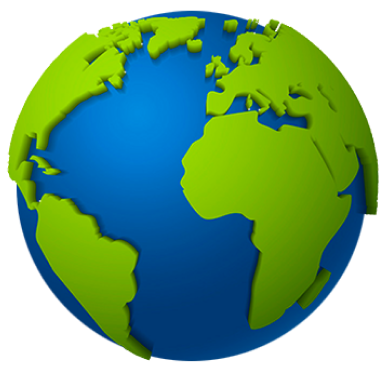
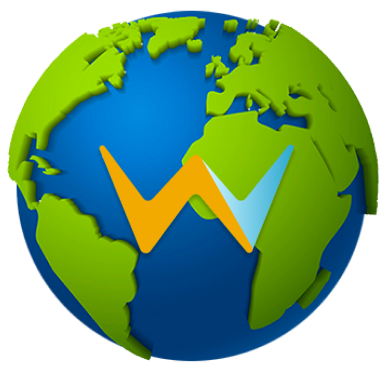
fix(home): refactor copy text

Changed region(s): [[0.2462, 0.3834, 0.7692, 0.7078]]

diff --git a/src/containers/webbtc/getStarted.tsx b/src/containers/webbtc/getStarted.tsx
@@ -1,0 +1,108 @@
+import { Box, Button, Grid, Typography } from "@mui/material";
+import Container from "@mui/material/Container";
+import ChevronRightIcon from "@mui/icons-material/ChevronRight";
+
+export default function GetStarted() {
+  const styles = {
+    root: {
+      display: "flex",
+      flexDirection: "column",
+      justifyContent: "center",
+      alignItems: "center",
+      padding: { xs: "0px 25px", md: "60px 24px 80px" },
+    },
+    containerImage: {
+      display: "flex",
+      flexDirection: "column",
+      justifyContent: "center",
+      img: {
+        margin: { xs: "0px", sm: "0px auto 20px" },
+        width: "100%",
+        maxWidth: { xs: "500px", md: "100%" },
+      },
+    },
+    title: {
+      fontSize: "38px",
+      fontWeight: "800",
+      lineHeight: "49px",
+    },
+    text: {
+      marginTop: "1rem",
+      fontSize: "20px",
+      fontWeight: "400",
+      opacity: "0.8",
+    },
+    containerText: {
+      display: "flex",
+      margin: "auto",
+      flexDirection: "column",
+      width: "100%",
+      maxWidth: "482px",
+    },
+    buttonContainer: {
+      display: "flex",
+      alignItems: "center",
+      margin: "5px auto",
+      flexDirection: { xs: "column", sm: "row" },
+      width: "100%",
+      maxWidth: "482px",
+    },
+    button: {
+      textTransform: "none",
+      borderRadius: "10px",
+      margin: { xs: "10px 15px 10px 0px", sm: "25px 25px auto 0px" },
+      width: "210px",
+      height: "64px",
+      background: "#F2A900",
+      color: "#0A0D13",
+      fontStyle: "normal",
+      fontWeight: "500",
+      fontSize: "16px",
+      lineHeight: "24px",
+      "&:hover": {
+        background: "#FFB800",
+      },
+    },
+  };
+
+  return (
+    <Container sx={styles.root}>
+      <Grid container spacing={2}>
+        <Grid item xs={12} md={6} sx={styles.containerImage}>
+          <img src="/images/illustrations/example.png" alt="setup" />
+        </Grid>
+        <Grid item xs={12} md={6}>
+          <Box sx={styles.containerText}>
+            <Typography sx={styles.title}>Get started with WebLN</Typography>
+            <Typography sx={styles.text}>
+              WebLN is an implementation of the WebBTC specification that
+              focuses only on off-chain Lightning Network functionality,
+              allowing web apps and client providers to communicate with user
+              wallets.
+            </Typography>
+          </Box>
+
+          <Box sx={styles.buttonContainer}>
+            <Button
+              variant="contained"
+              sx={styles.button}
+              color="primary"
+              endIcon={<ChevronRightIcon />}
+              href="/webln"
+            >
+              Learn more
+            </Button>
+            <Button
+              variant="contained"
+              sx={styles.button}
+              endIcon={<ChevronRightIcon />}
+              href="https://webln.guide"
+            >
+              Developers Docs
+            </Button>
+          </Box>
+        </Grid>
+      </Grid>
+    </Container>
+  );
+}

diff --git a/src/containers/webbtc/specifications.tsx b/src/containers/webbtc/specifications.tsx
@@ -1,0 +1,99 @@
+import { Box, Button, Grid, Typography } from "@mui/material";
+import Container from "@mui/material/Container";
+import ChevronRightIcon from "@mui/icons-material/ChevronRight";
+
+export default function Specifications() {
+  const styles = {
+    root: {
+      display: "flex",
+      flexDirection: "column",
+      justifyContent: "center",
+      alignItems: "center",
+      padding: { xs: "0px 25px", md: "60px 24px 80px" },
+    },
+    containerImage: {
+      display: "flex",
+      flexDirection: "column",
+      justifyContent: "center",
+      img: {
+        margin: { xs: "0px", sm: "0px auto 20px" },
+        width: "100%",
+        maxWidth: { xs: "500px", md: "100%" },
+      },
+    },
+    title: {
+      fontSize: "38px",
+      fontWeight: "800",
+      lineHeight: "49px",
+    },
+    text: {
+      fontSize: "20px",
+      fontWeight: "400",
+      opacity: "0.8",
+      marginTop: "50px",
+      marginBottom: "20px",
+    },
+    containerText: {
+      display: "flex",
+      margin: "auto",
+      flexDirection: "column",
+      width: "100%",
+      maxWidth: "482px",
+    },
+    buttonContainer: {
+      display: "flex",
+      alignItems: "center",
+      margin: "5px auto",
+      flexDirection: { xs: "column", sm: "row" },
+      width: "100%",
+      maxWidth: "482px",
+    },
+    button: {
+      textTransform: "none",
+      borderRadius: "10px",
+      margin: { xs: "10px 15px 10px 0px", sm: "25px 25px auto 0px" },
+      width: "190px",
+      height: "64px",
+      background: "#F2A900",
+      color: "#0A0D13",
+      fontStyle: "normal",
+      fontWeight: "500",
+      fontSize: "16px",
+      lineHeight: "24px",
+      "&:hover": {
+        background: "#FFB800",
+      },
+    },
+  };
+
+  return (
+    <Container sx={styles.root}>
+      <Grid container spacing={2}>
+        <Grid item xs={12} md={6}>
+          <Box sx={styles.containerText}>
+            <Typography sx={styles.title}>WebBTC Specifications</Typography>
+            <Typography sx={styles.text}>
+              WebBTC is a specification for interacting with Bitcoin wallets in
+              your browser, covering on-chain and off-chain payments.
+            </Typography>
+          </Box>
+
+          <Box sx={styles.buttonContainer}>
+            <Button
+              variant="contained"
+              sx={styles.button}
+              color="primary"
+              endIcon={<ChevronRightIcon />}
+              href="https://balls.dev/webbtc"
+            >
+              Documentation
+            </Button>
+          </Box>
+        </Grid>
+        <Grid item xs={12} md={6} sx={styles.containerImage}>
+          <img src="/images/illustrations/webbtc-print.png" alt="setup" />
+        </Grid>
+      </Grid>
+    </Container>
+  );
+}

diff --git a/pages/index.tsx b/pages/index.tsx
@@ -2,11 +2,11 @@ import type { NextPage } from "next";
 import Main from "../src/components/main";
 import HeaderWebBTC from "../src/containers/webbtc/header";
 import Landing from "../src/containers/webbtc/landing";
-import Setup from "../src/containers/webbtc/setup";
+import GetStarted from "../src/containers/webbtc/getStarted";
 import Section1 from "../src/containers/webbtc/section1";
 import Section2 from "../src/containers/webbtc/section2";
-import ProvidersWebBTC from "../src/containers/webbtc/providers";
 import ContactWebBTC from "../src/containers/webbtc/contact";
+import Specifications from "../src/containers/webbtc/specifications";
 import Footer from "../src/containers/webbtc/footer";
 import { motion } from "framer-motion";
 
@@ -35,14 +35,6 @@ const Home: NextPage = () => {
         whileInView={{ opacity: 1 }}
         viewport={{ once: true }}
       >
-        <Setup />
-      </motion.div>
-      <motion.div
-        transition={{ ease: "easeIn", duration: 0.5 }}
-        initial={{ opacity: 0 }}
-        whileInView={{ opacity: 1 }}
-        viewport={{ once: true }}
-      >
         <Section1 />
       </motion.div>
       <motion.div
@@ -59,7 +51,15 @@ const Home: NextPage = () => {
         whileInView={{ opacity: 1 }}
         viewport={{ once: true }}
       >
-        <ProvidersWebBTC />
+        <Specifications />
+      </motion.div>
+      <motion.div
+        transition={{ ease: "easeIn", duration: 0.5 }}
+        initial={{ opacity: 0 }}
+        whileInView={{ opacity: 1 }}
+        viewport={{ once: true }}
+      >
+        <GetStarted />
       </motion.div>
       <motion.div
         transition={{ ease: "easeIn", duration: 0.5 }}

diff --git a/src/containers/webbtc/footer.tsx b/src/containers/webbtc/footer.tsx
@@ -10,25 +10,25 @@ export default function FooterWebBTC() {
         title: "App & Wallet Developers",
         links: [
           {
-            title: "Developer guide",
-            link: "https://bitcoiners.org",
+            title: "WebBTC Specification",
+            link: "https://balls.dev/webbtc/",
           },
           {
-            title: "WebBTC Specs",
-            link: "https://bitcoiners.org",
-          },
-          {
-            title: "App Directory",
-            link: "https://bitcoiners.org",
+            title: "WebLN",
+            link: "https://webln.guide",
           },
         ],
       }}
       column3={{
-        title: "Contact",
+        title: "Feedback & Questions",
         links: [
           {
-            title: "Got questions?",
-            link: "https://bitcoiners.org",
+            title: "Telegram",
+            link: "https://t.me/bitcoinandlightningspecs",
+          },
+          {
+            title: "Github",
+            link: "https://github.com/BitcoinAndLightningLayerSpecs/WebBTC/",
           },
         ],
       }}

diff --git a/src/containers/webbtc/landing.tsx b/src/containers/webbtc/landing.tsx
@@ -8,7 +8,7 @@ export default function Landing() {
       flexDirection: "column",
       textAlign: "left",
       justifyContent: "center",
-      padding: { xs: "0px 25px", sm: "0px 20px", md: "0px 100px" },
+      padding: { xs: "0px 25px", sm: "0px 20px", md: "0px 0px 0px 70px" },
       maxWidth: { xs: "500px", md: "1200px" },
       margin: {
         xs: "0px auto",
@@ -68,7 +68,11 @@ export default function Landing() {
       <Grid container spacing={6}>
         <Grid item xs={12} md={7}>
           <Typography sx={styles.title}>
-            Combine the power of Bitcoin with your website!
+            Combine the
+            <br />
+            power of Bitcoin
+            <br />
+            with your website!
           </Typography>
           <Typography sx={styles.subtitle}>
             WebBTC is a set of specifications for web apps and client providers

diff --git a/src/containers/webbtc/contact.tsx b/src/containers/webbtc/contact.tsx
@@ -5,7 +5,7 @@ export default function ContactWebBTC() {
     <Contact
       title={"Your favorite app doesn't support WebBTC yet?"}
       description={
-        "If your favorite app doesn't support WebBTC yet, get in touch with the developer company and ask them to learn about how the protocol can help their users."
+        "If your favorite app doesn't support WebBTC yet, get in touch with the developer company and ask them to learn about how the protocol can help improve their user experience."
       }
       email={""}
     />

diff --git a/src/containers/webbtc/section2.tsx b/src/containers/webbtc/section2.tsx
@@ -9,7 +9,7 @@ export default function Section2() {
       {
         title: "Simple Integration",
         image: "/images/icons/simple-integration.png",
-        text: "WebLN can be integrated into existing apps very easily, often by just adding a few lines of code. ",
+        text: "WebBTC can be integrated into existing apps very easily, often by just adding a few lines of code. ",
       },
       {
         title: "Superior UX",

diff --git a/src/containers/webbtc/header.tsx b/src/containers/webbtc/header.tsx
@@ -4,12 +4,8 @@ export default function HeaderWebBTC() {
   return (
     <Header
       name="WebBTC"
-      logo="/images/webln-logo.png"
-      links={[
-        { title: "Home" },
-        { title: "Developers Docs" },
-        { title: "Current Projects" },
-      ]}
+      logo="/images/webbtc-logo.png"
+      links={[{ title: "Developers Docs" }, { title: "Current Projects" }]}
     />
   );
 }
